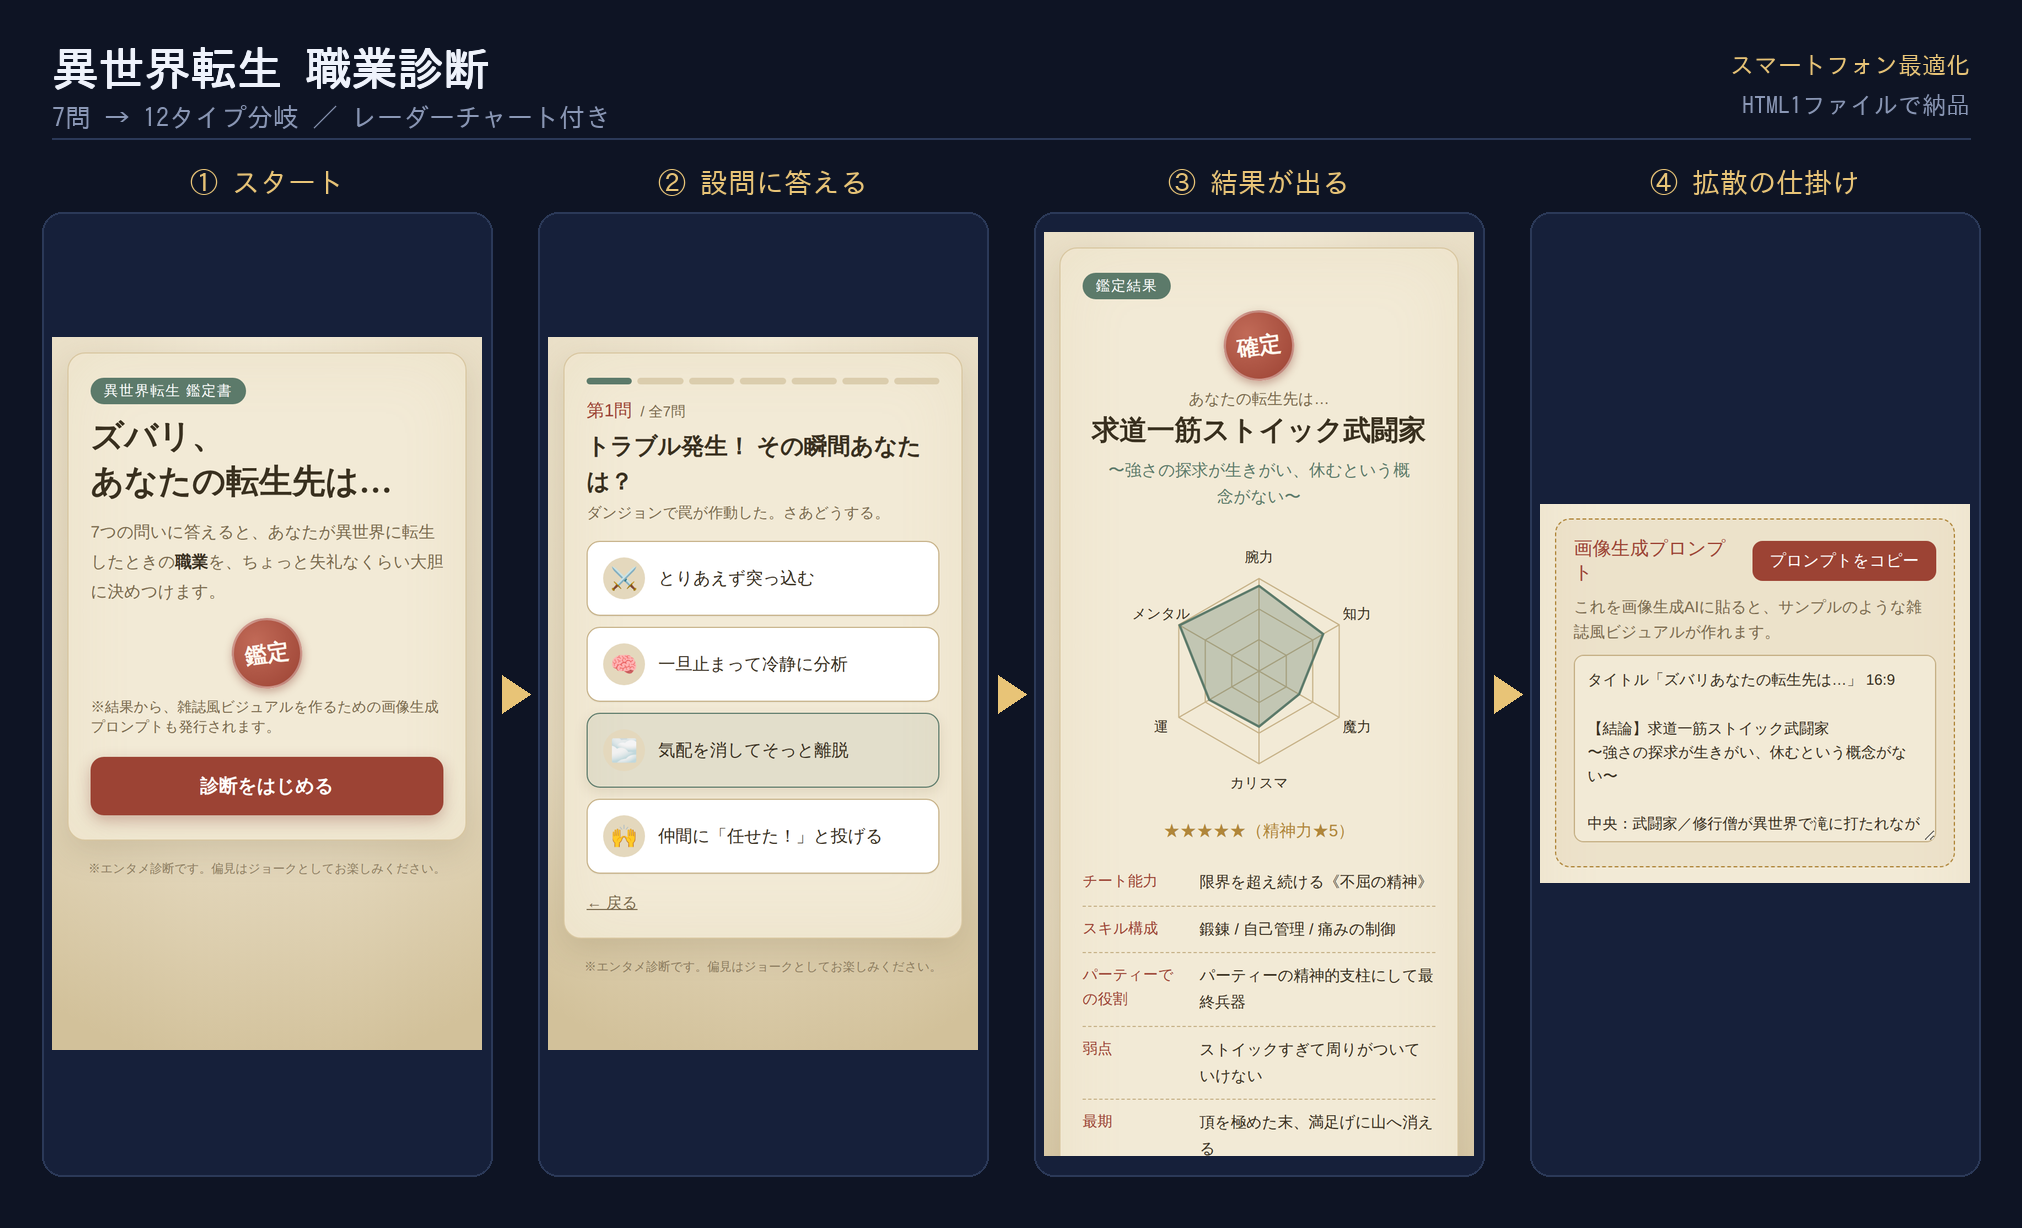
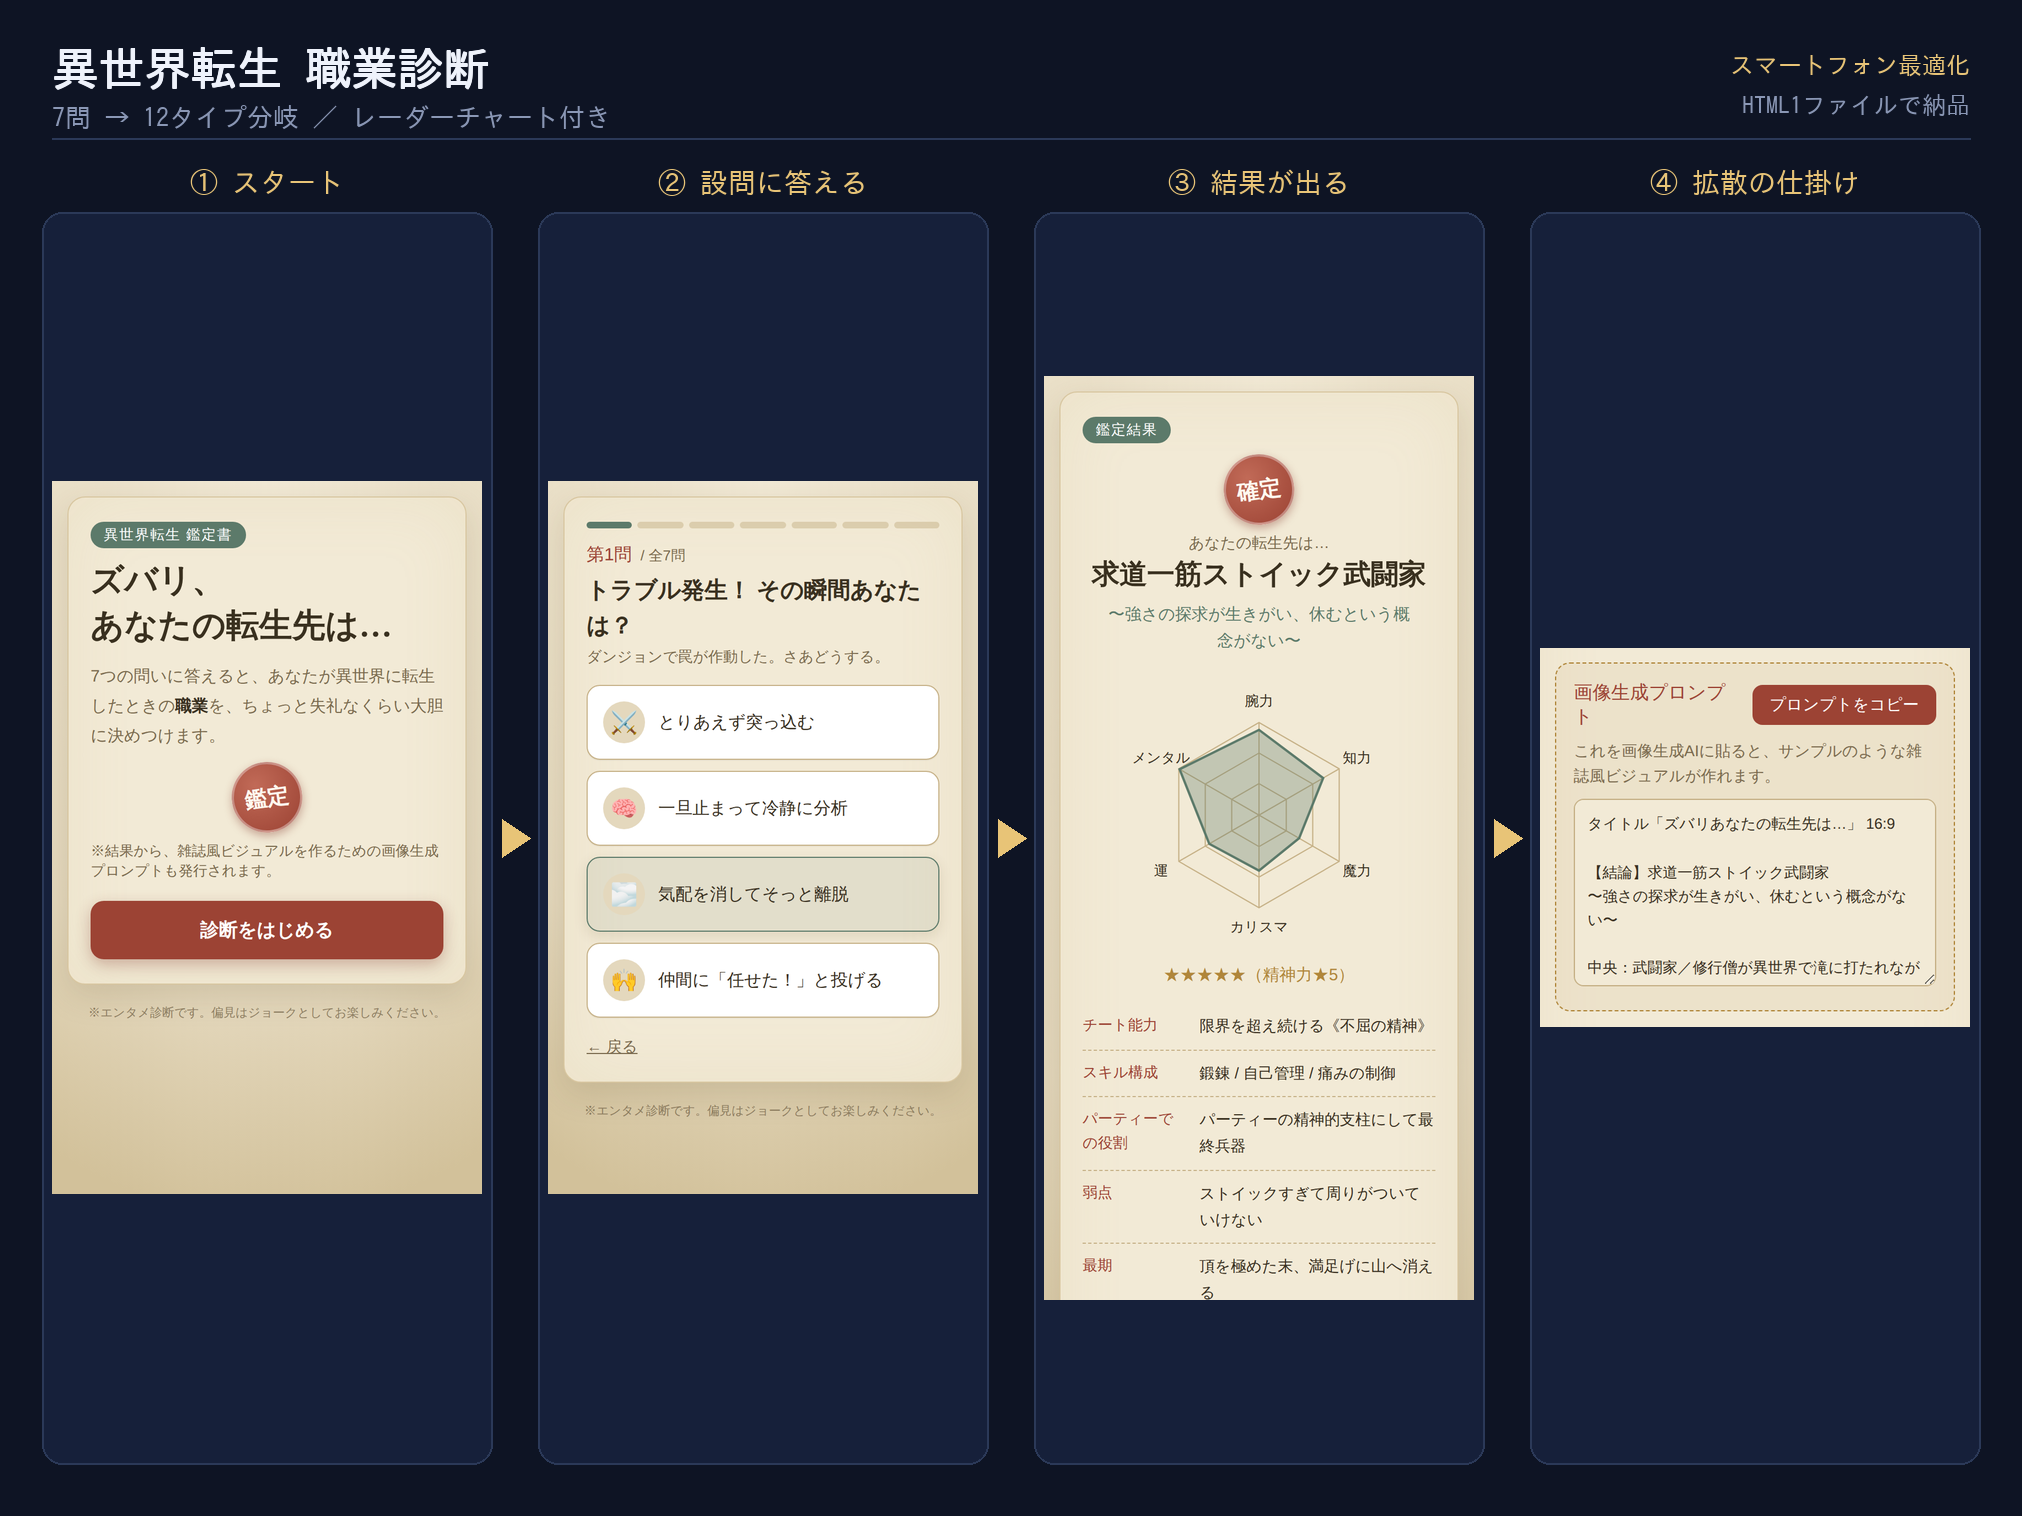
Rebuild portfolio images at 4:3 so nothing gets cropped
Coconala renders service and portfolio images at 4:3 and center-crops
anything else. The landscape composites (1.65:1) lost the left edge of
the work title and the right edge of the fourth cut; the portrait result
stills would have lost their top and bottom.

- flow: pad the panels vertically to 2022x1516 so the full four-cut row
  and the header survive the crop
- result: place the phone screenshot on a 1600x1200 board with the work
  title, its structure, and three feature bullets alongside it

Drops the intermediate screenshots from the repo (gitignored) since
shots.py regenerates them.

Claude-Session: https://claude.ai/code/session_01F9sMyymGoCyBRjvSWP7idD

diff --git a/_notes/portfolio-tools/compose.py b/_notes/portfolio-tools/compose.py
@@ -57,6 +57,44 @@ def trim_tail(im, keep=28, tol=6):
     return im.crop((0, 0, w, min(im.height, y + keep)))
 
 
+RESULT_POINTS = {
+    "isekai":   ["12タイプから1つを判定", "6軸のレーダーチャートを自動描画", "画像生成プロンプトを自動発行"],
+    "side-biz": ["4タイプから1つを判定", "タイプごとに配色を出し分け", "シェアを促す一文で拡散へ"],
+    "ai-level": ["回答をスコア化し4段階で判定", "次にとる行動を3つ提示", "CTAでリード獲得へつなぐ"],
+    "shachiku": ["度合いを％で可視化", "3段階のスケールで位置を表示", "結果に寄り添う解説文"],
+    "golf":     ["4タイプから課題を特定", "タイプ共通の改善ヒントを提示", "シェアを促す一文で拡散へ"],
+}
+
+
+def build_result(slug, title, subtitle):
+    """結果画面の単体画像。縦長のままだと4:3で上下を切られるため、台紙に載せる。"""
+    W, H = 1600, 1200
+    shot = trim_tail(Image.open(f"{SHOTS}/{slug}-3-result.png").convert("RGB"))
+    ph = H - 100
+    pw = round(shot.width * ph / shot.height)
+    shot = shot.resize((pw, ph), Image.LANCZOS)
+
+    canvas = Image.new("RGB", (W, H), BG)
+    d = ImageDraw.Draw(canvas)
+    x = W - 70 - pw
+    canvas.paste(shot, (x, (H - ph) // 2))
+
+    # 左側にテキスト
+    tx, ty = 70, 345
+    d.text((tx, ty), "RESULT", font=font(26), fill=GOLD)
+    bold(d, (tx, ty + 52), title, font(52), INK)
+    d.text((tx, ty + 130), subtitle, font=font(27), fill=MUT)
+    for i, p in enumerate(RESULT_POINTS[slug]):
+        y = ty + 220 + i * 62
+        d.ellipse((tx + 4, y + 13, tx + 18, y + 27), fill=GOLD)
+        d.text((tx + 36, y), p, font=font(29), fill=INK)
+
+    os.makedirs(OUT, exist_ok=True)
+    path = f"{OUT}/{slug}-result.png"
+    canvas.save(path, optimize=True)
+    return path
+
+
 def build(slug, title, subtitle, step4):
     cuts = []
     for key, _ in STEPS:
@@ -67,6 +105,11 @@ def build(slug, title, subtitle, step4):
     body_h = max(c.height for c in cuts) + 40          # パネル内余白
     W = MARGIN * 2 + CUT_W * 4 + GAP * 3
     H = HEAD_H + LABEL_H + body_h + MARGIN
+    # ココナラのサービス画像は4:3で表示されるため、左右を切られないよう縦に伸ばす
+    H43 = round(W * 3 / 4)
+    if H < H43:
+        body_h += H43 - H
+        H = H43
 
     canvas = Image.new("RGB", (W, H), BG)
     d = ImageDraw.Draw(canvas)
@@ -104,8 +147,7 @@ def build(slug, title, subtitle, step4):
 for slug, title, sub, s4 in DEMOS:
     p, size = build(slug, title, sub, s4)
     print(f"{p}  {size[0]}x{size[1]}  {os.path.getsize(p)//1024}KB")
-    # 結果画面の単体画像も書き出す
-    r = trim_tail(Image.open(f"{SHOTS}/{slug}-3-result.png").convert("RGB"))
-    rp = f"{OUT}/{slug}-result.png"
-    r.save(rp, optimize=True)
+    # 結果画面の単体画像も4:3の台紙に載せて書き出す
+    rp = build_result(slug, title, sub)
+    r = Image.open(rp)
     print(f"{rp}  {r.width}x{r.height}  {os.path.getsize(rp)//1024}KB")

diff --git a/_notes/coconala-launch-plan.md b/_notes/coconala-launch-plan.md
@@ -284,8 +284,13 @@ GitHub PagesのURLを説明欄に直貼りするのは避けてください。
 
 | ファイル | 用途 | サイズ |
 |---|---|---|
-| `portfolio/<slug>-flow.png` | 4カット合成（ポートフォリオのメイン画像） | 2022×1105〜1257 |
-| `portfolio/<slug>-result.png` | 結果画面の単体（2枚目以降に追加） | 756〜780×1408〜1676 |
+| `portfolio/<slug>-flow.png` | 4カット合成（ポートフォリオのメイン画像） | 2022×1516 |
+| `portfolio/<slug>-result.png` | 結果画面の単体（2枚目以降に追加） | 1600×1200 |
+
+**両方とも4:3です。** ココナラのサービス画像・ポートフォリオ画像は4:3で表示され、
+それ以外の比率は中央だけが切り抜かれます。横長（1.65:1）で作ったところ、
+作品名の左端と4カット目の右端が切れました。縦長の結果画面も同様に上下を失うため、
+4:3の台紙に載せて左側に作品名と特徴を配置しています。
 
 slug は `isekai` / `side-biz` / `ai-level` / `shachiku` / `golf` の5種類。
 
